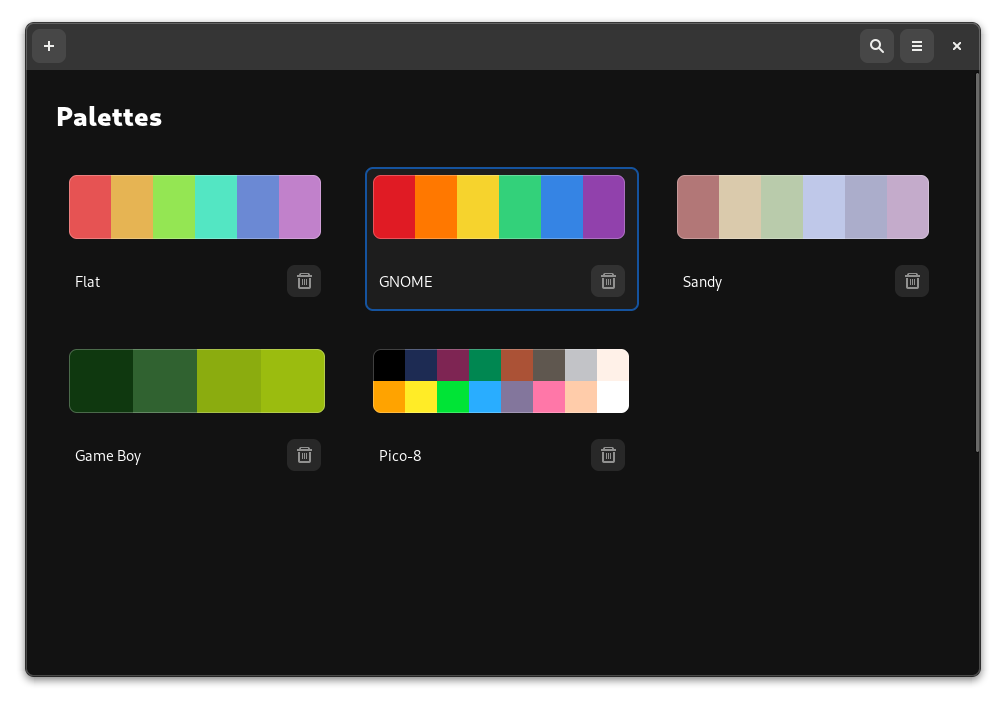
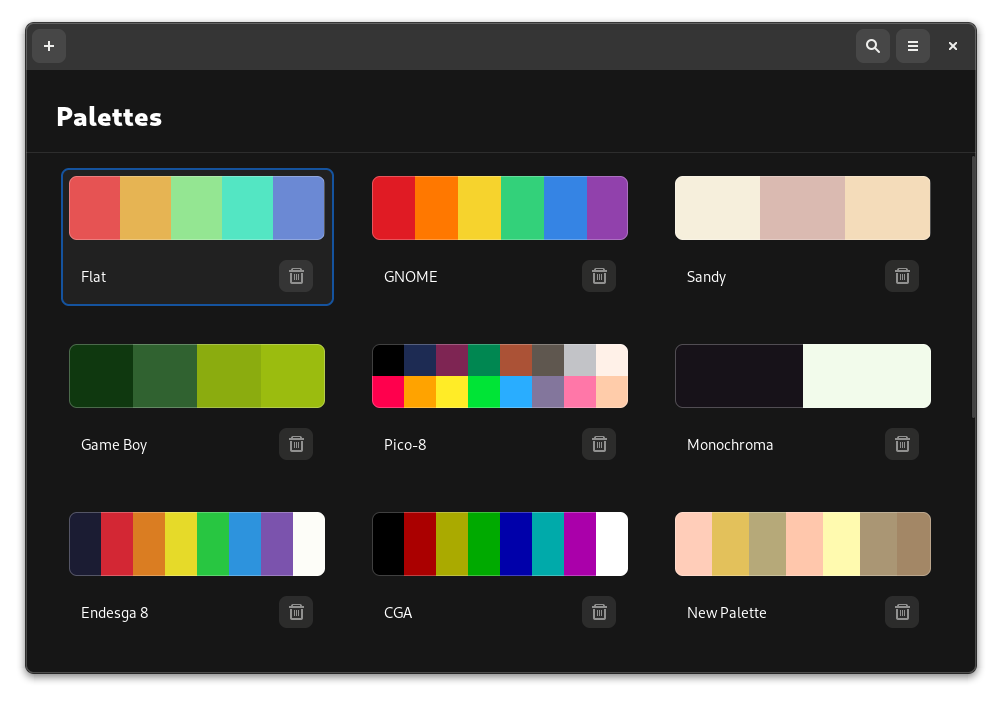
1.0.0 - Update screenshot

diff --git a/data/app.css b/data/app.css
@@ -132,6 +132,7 @@ stackswitcher button:last-child {
 
 .title-box {
   background: none;
+  border-bottom: 1px solid alpha(white, 0.10);
 }
 
 .palette {
